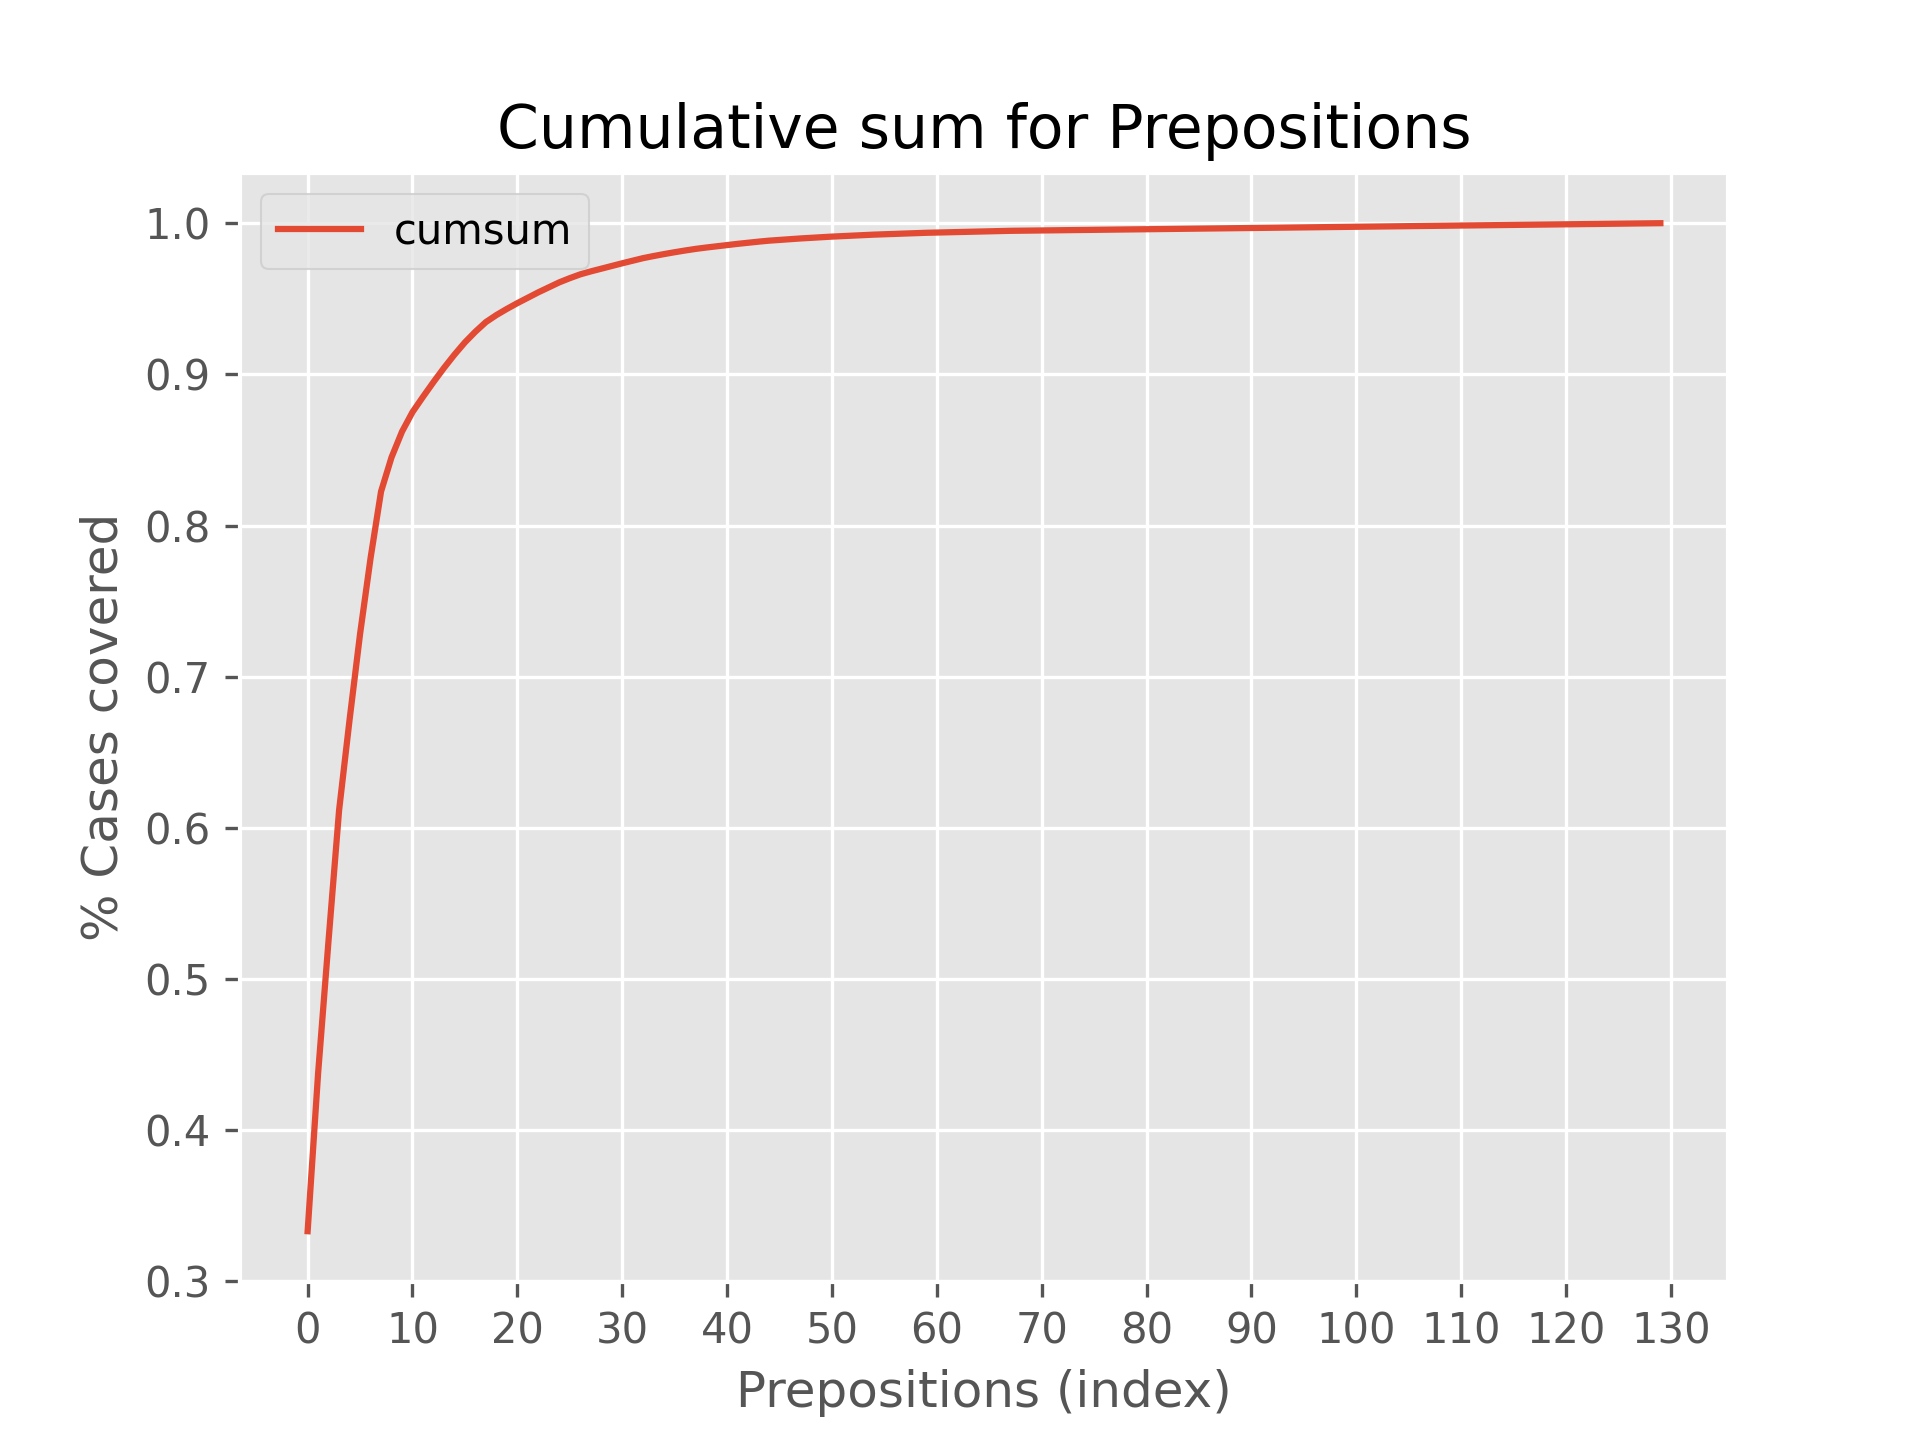
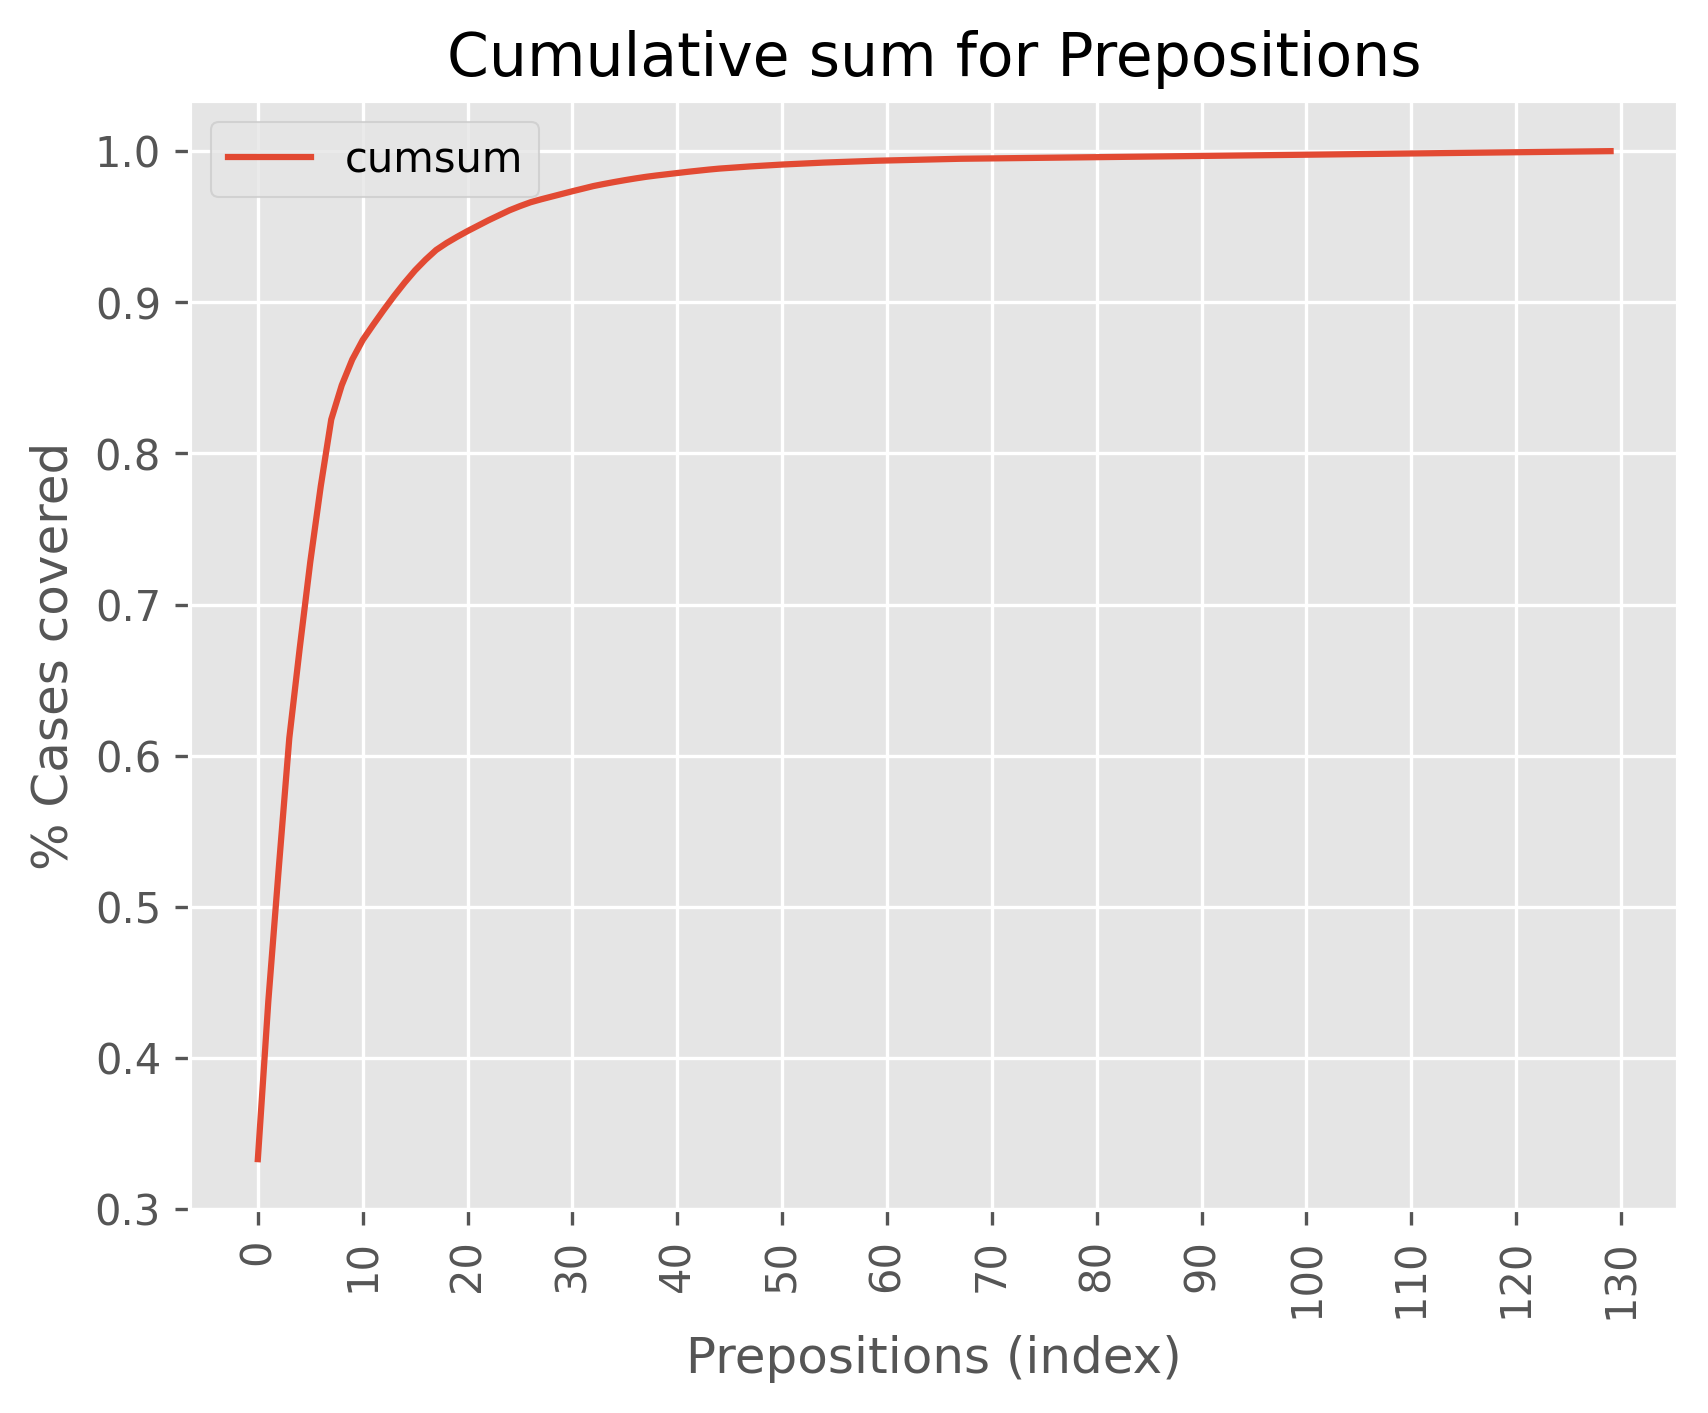
coding week 7 not finished yet

diff --git a/code/cumsum_common_verbs_preps.py b/code/cumsum_common_verbs_preps.py
@@ -21,12 +21,12 @@ def plot_cumsum(df, tick_freq=20, topic = "Elem", save_plots=False):
    
     df[["elem","cumsum"]].plot()
     xticks = np.arange(0, len(df)+1, tick_freq)
-    plt.xticks(xticks)
+    plt.xticks(xticks, rotation="vertical")  
     plt.title(f"Cumulative sum for {topic}")
     plt.xlabel(f"{topic} (index)")
     plt.ylabel("% Cases covered")
     if save_plots:
-        plt.savefig(f"{SAVE_PATH}cumsum_{topic}.png".lower(),  dpi=300)
+        plt.savefig(f"{SAVE_PATH}cumsum_{topic}.png".lower(),  dpi=300,bbox_inches='tight')
     plt.show()
 
 def plot_cumsum_labels(df, tick_freq=20, topic = "Elem", save_plots=False):
